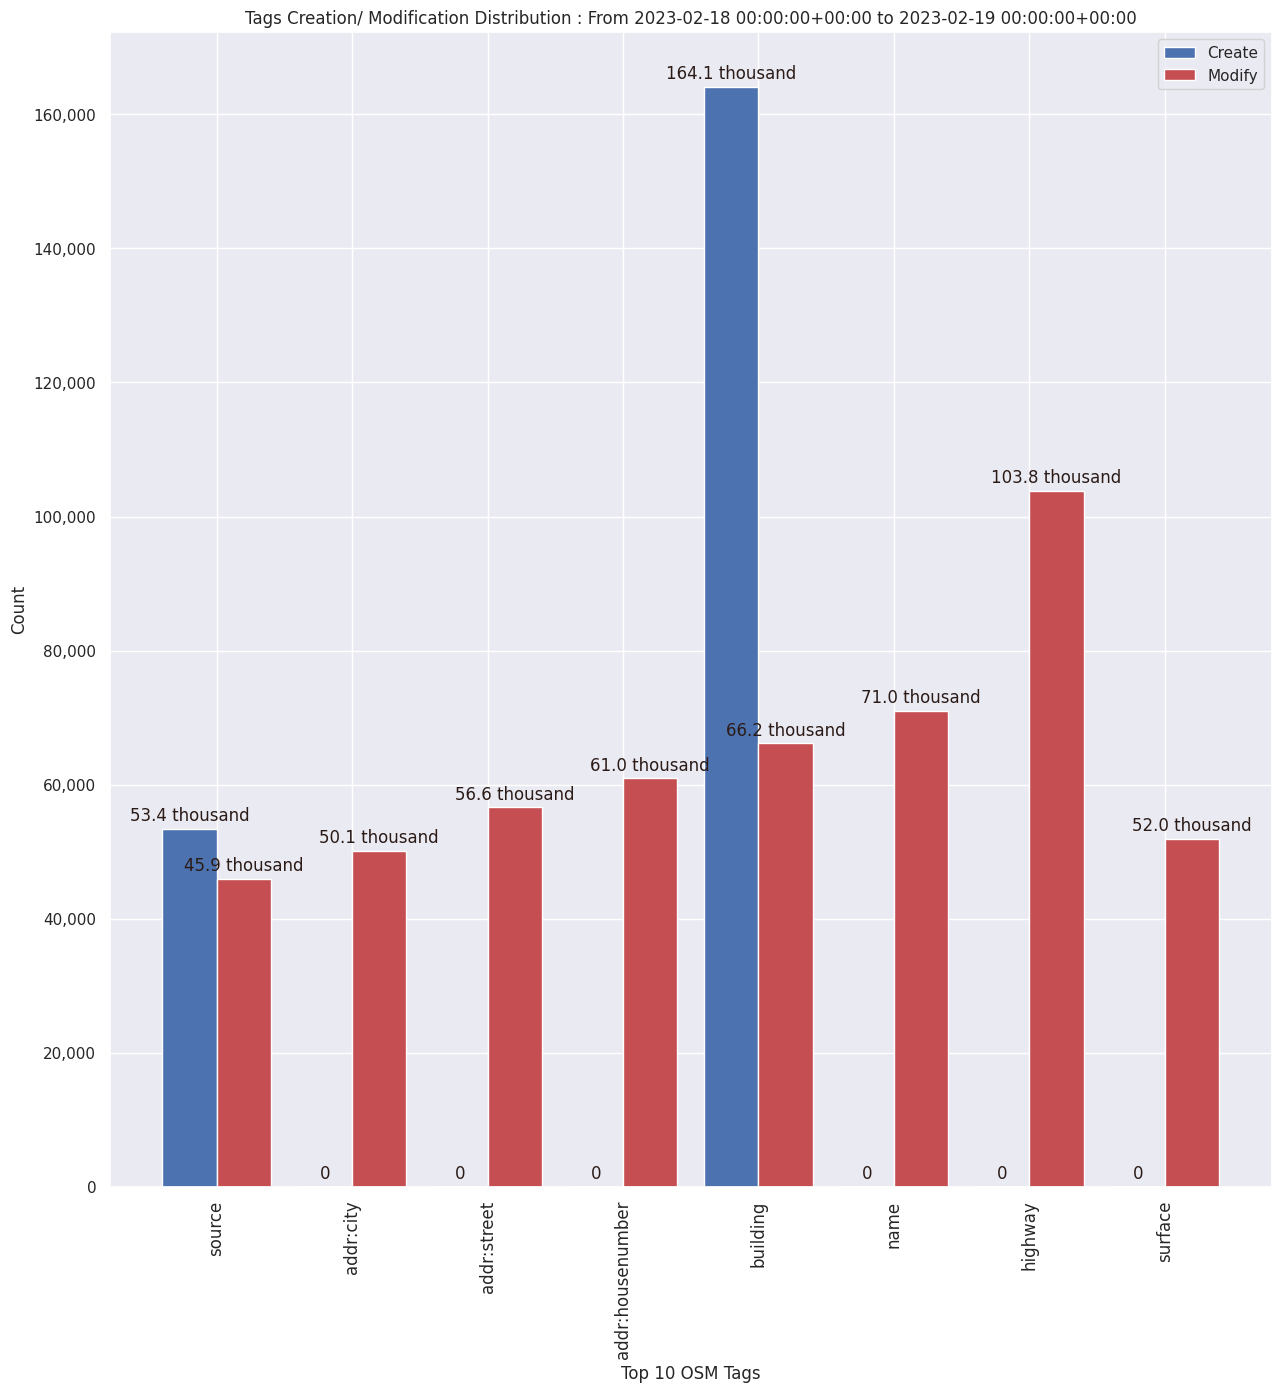
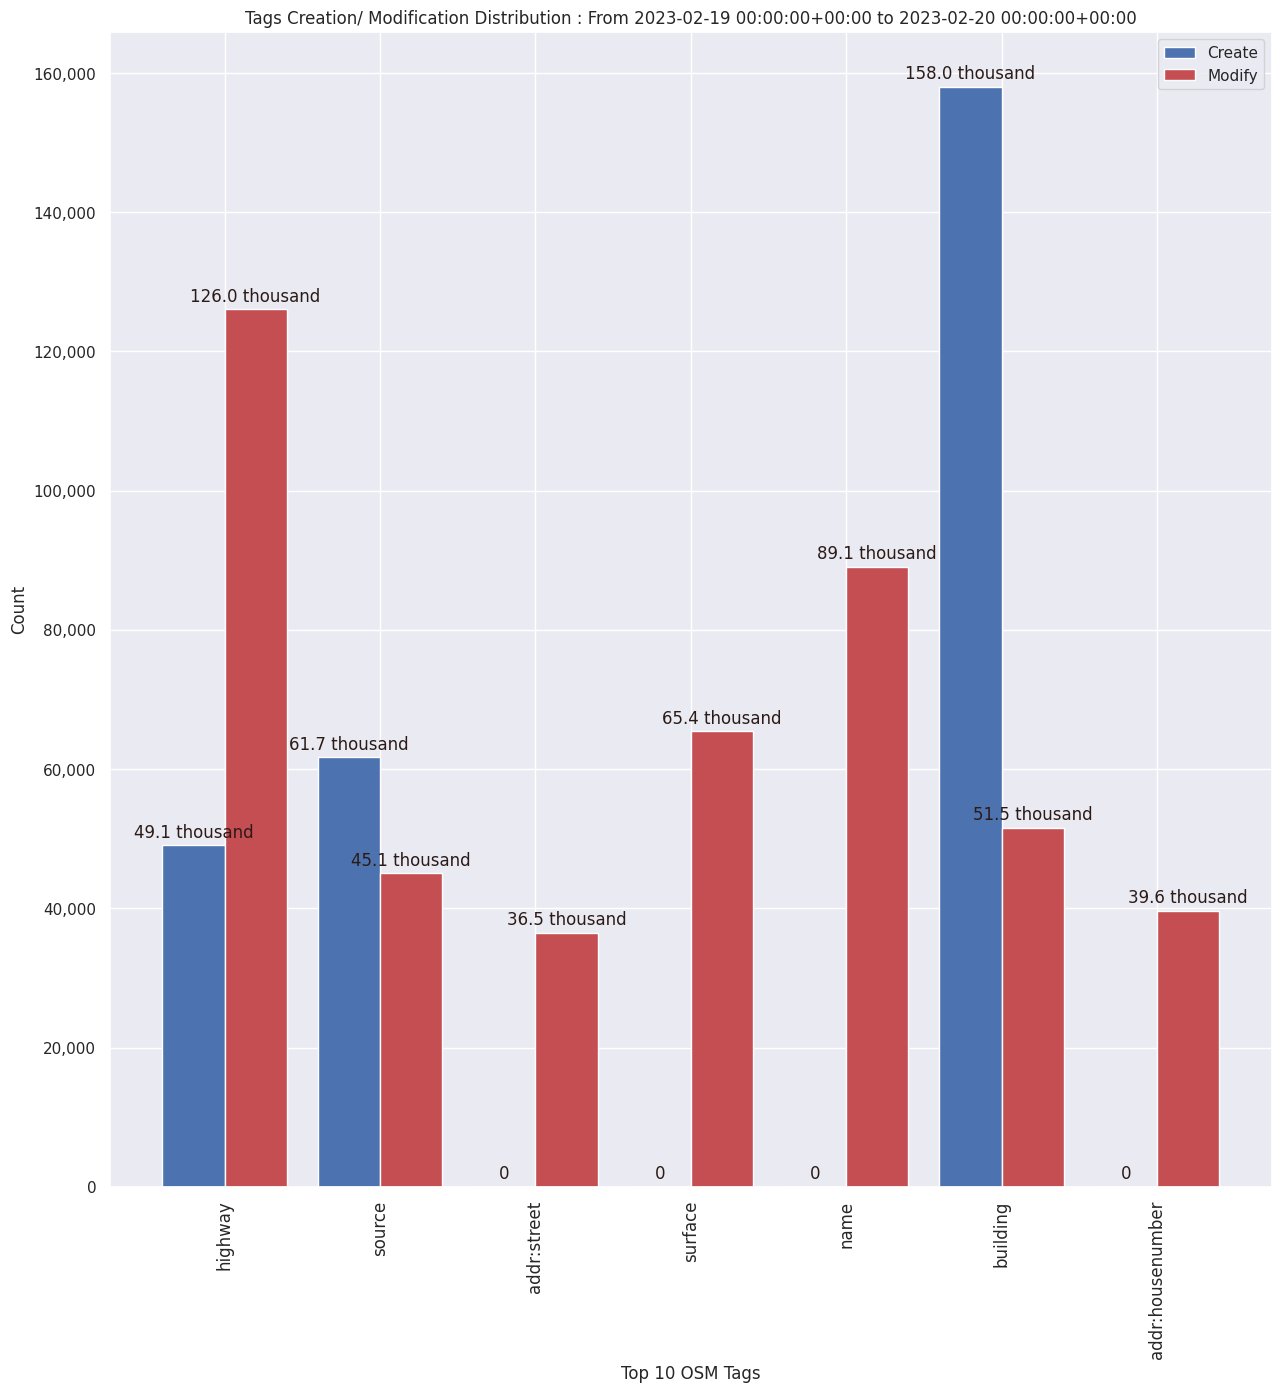
Updated Readme Daily Global

diff --git a/stats/Global/Daily/README.md b/stats/Global/Daily/README.md
@@ -1,11 +1,11 @@
 ### Last Update :
 
-### Stats From 2023-02-18 00:00:00+00:00 to 2023-02-19 00:00:00+00:00
+### Stats From 2023-02-19 00:00:00+00:00 to 2023-02-20 00:00:00+00:00
 
-5046 Users made 33404 changesets with 3.2 million map changes.
-- 2.3 million OSM Elements were Created,629.0 thousand Modified & 237.4 thousand Deleted . Including 164.1 thousand buildings & 44.6 thousand highways created. Wilmer Osario tops table with 151.0 thousand changes
-- Top three trending hashtags for those stats are #TürkiyeEQ060223 : 327, #MissingMaps : 213 & #OMHAP : 212
--  & Top three countries based on no of users contributed are Germany : 827, United States of America : 494 & France : 385
+5387 Users made 36644 changesets with 3.1 million map changes.
+- 2.2 million OSM Elements were Created,706.4 thousand Modified & 222.4 thousand Deleted . Including 158.0 thousand buildings & 49.1 thousand highways created. _jcaruso tops table with 88.6 thousand changes
+- Top three trending hashtags for those stats are #TürkiyeEQ060223 : 278, #MissingMaps : 211 & #OMHAP : 210
+-  & Top three countries based on no of users contributed are Germany : 924, United States of America : 548 & France : 447
 ![Alt text](./charts/osm_changes.png) 
 ![Alt text](./charts/users_per_hashtag.png) 
 ![Alt text](./charts/users_per_country.png) 
